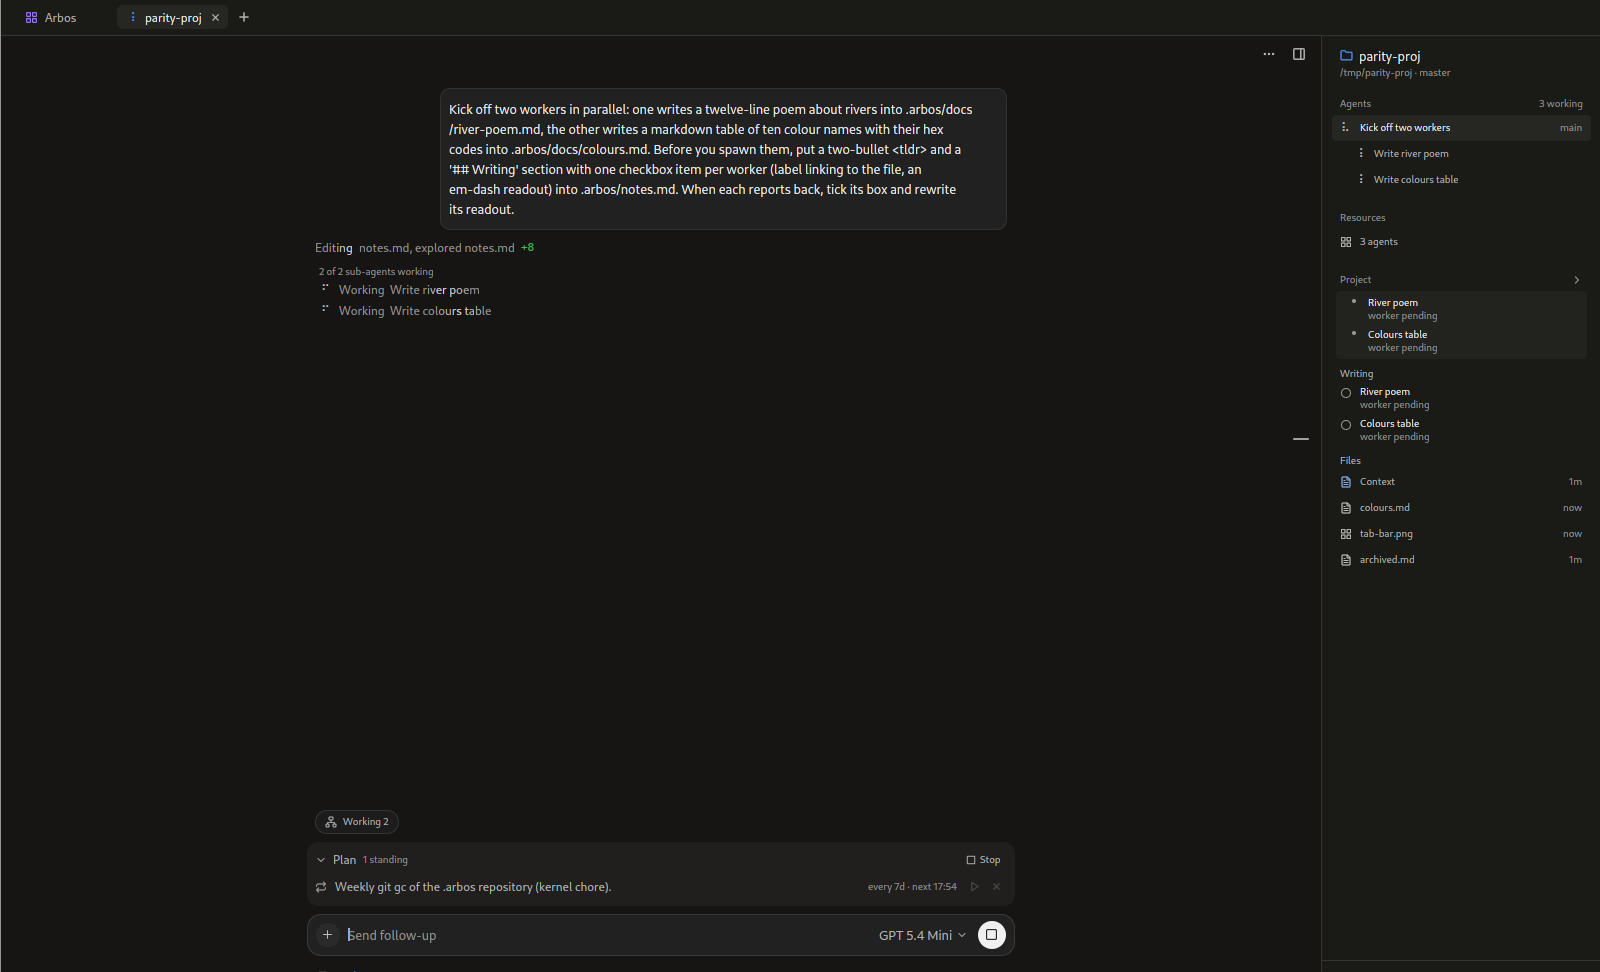
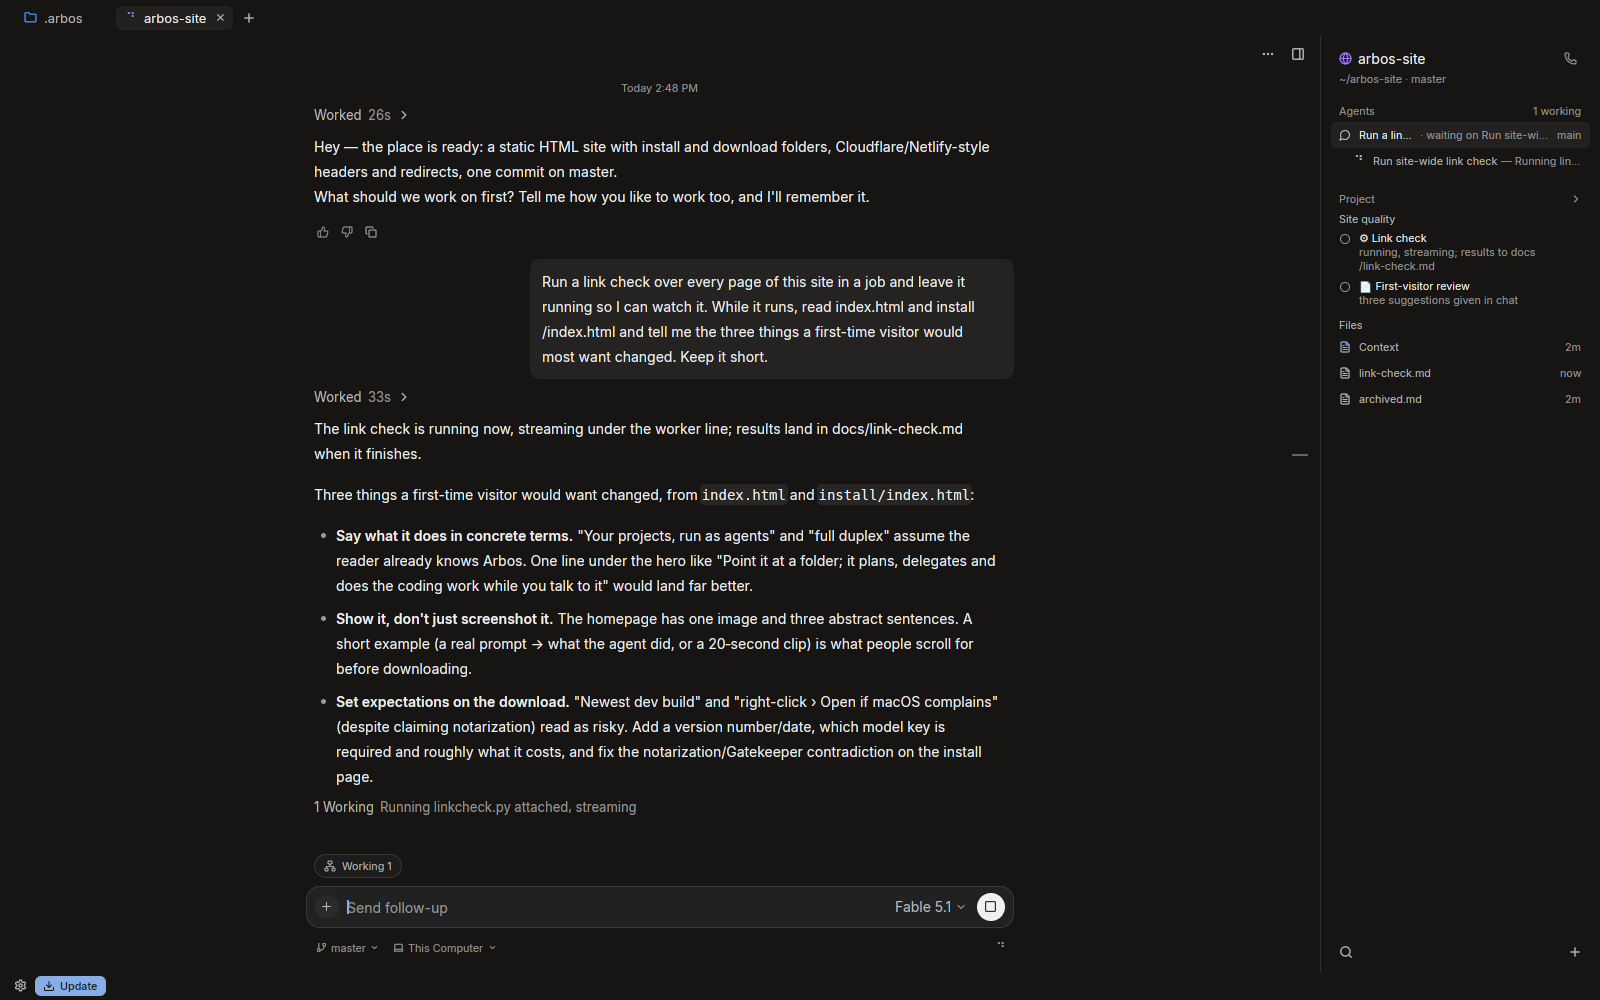
www: real current screenshot of the app (build 1478, worker running a job); install page matches notarized builds

diff --git a/www/install/index.html b/www/install/index.html
@@ -37,9 +37,9 @@
       <div class="prose">
         <h2 id="mac">Mac</h2>
         <ol>
-          <li><a href="/download/mac" data-mac-download>Download Arbos</a> (<span data-release-note>the newest dev build</span>). Apple silicon, macOS 13 or newer. Developer ID signed and notarized. A zip unpacks to <strong>Arbos.app</strong>.</li>
+          <li><a href="/download/mac" data-mac-download>Download Arbos</a> (<span data-release-note>the newest dev build</span>). Apple silicon, macOS 13 or newer. A zip unpacks to <strong>Arbos.app</strong>.</li>
           <li>Open the download and drag <strong>Arbos</strong> into <strong>Applications</strong>.</li>
-          <li>Open Arbos. If macOS says it cannot verify the developer, right-click the app and choose <strong>Open</strong>, or allow it under <strong>System Settings › Privacy &amp; Security</strong>. Once.</li>
+          <li>Open Arbos. Builds are Developer ID signed and notarized, so macOS opens them without a warning.</li>
           <li><strong>Microphone.</strong> The first time you dictate or start a call, macOS asks. Allow it. <strong>Settings › Permissions</strong> shows the state and can test the microphone.</li>
           <li><strong>Model key.</strong> <strong>Settings › Model</strong>: paste an <a href="https://openrouter.ai/settings/keys" rel="noopener">OpenRouter key</a> and pick a model. OpenAI keys and any OpenAI-compatible endpoint work too.</li>
           <li><kbd>⌘T</kbd>, choose a folder. That folder is now a project with its own agent. Type, or hold <kbd>fn</kbd> to speak.</li>

diff --git a/www/index.html b/www/index.html
@@ -42,7 +42,7 @@
         </p>
         <p class="btn-note"><span data-release-note>Newest dev build</span> · Apple silicon · macOS 13 or newer · <a href="/install/">install</a></p>
         <figure class="shot">
-          <img src="/assets/arbos-desktop.png" width="1600" height="1000" alt="The Arbos desktop app: a project's chat on the left, the side drawer open on the right with a job running." fetchpriority="high">
+          <img src="/assets/arbos-desktop.png" width="1600" height="1000" alt="The Arbos desktop app: the project's chat on the left, with the agent's answer and a worker running a link check; the side drawer on the right lists the agents, the project's items, and its files." fetchpriority="high">
         </figure>
       </div>
     </section>
